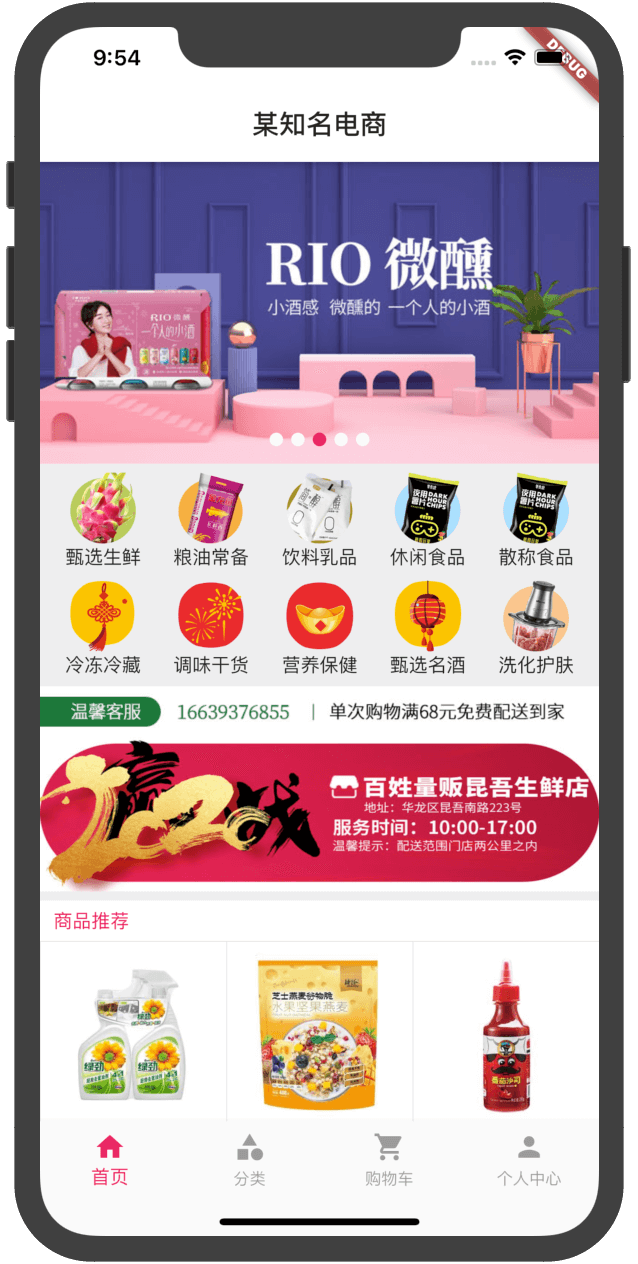
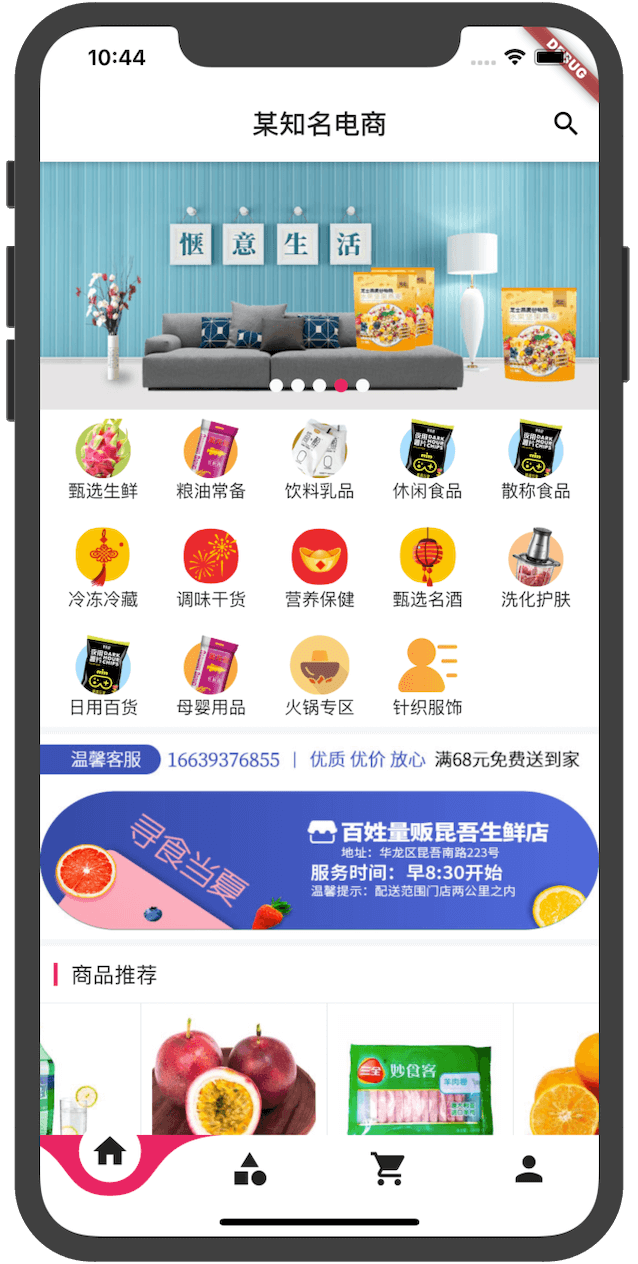
change ui

diff --git a/lib/pages/tabs.dart b/lib/pages/tabs.dart
@@ -8,15 +8,16 @@ import 'package:flutter_screenutil/flutter_screenutil.dart';
 import '../config/color.dart';
 import 'package:provider/provider.dart';
 import '../config/routers/tab_index_provider.dart';
+import 'package:curved_navigation_bar/curved_navigation_bar.dart';
 
 class Tabs extends StatelessWidget {
-  final List<BottomNavigationBarItem> bottomTabs = [
-    BottomNavigationBarItem(icon: Icon(Icons.home), title: Text('首页')),
-    BottomNavigationBarItem(icon: Icon(Icons.category), title: Text('分类')),
-    BottomNavigationBarItem(
-        icon: Icon(Icons.shopping_cart), title: Text('购物车')),
-    BottomNavigationBarItem(icon: Icon(Icons.person), title: Text('个人中心')),
+  final List<Widget> bottomTabs = [
+    Icon(Icons.home, size: 30),
+    Icon(Icons.category, size: 30),
+    Icon(Icons.shopping_cart, size: 30),
+    Icon(Icons.person, size: 30),
   ];
+
   final List<String> _titleList = ['某知名电商', '商品分类', '购物车', '我的'];
   final List<Widget> tabBodies = [
     HomePage(),
@@ -50,12 +51,11 @@ class Tabs extends StatelessWidget {
             : AppBar(
                 title: Text(_titleList[currentIndex]),
               ),
-        backgroundColor: Color.fromRGBO(244, 245, 245, 1.0),
-        bottomNavigationBar: BottomNavigationBar(
-          fixedColor: KColor.themeColor,
-          unselectedItemColor: Colors.black38,
-          type: BottomNavigationBarType.fixed,
-          currentIndex: currentIndex,
+        backgroundColor: KColor.bgColor,
+        bottomNavigationBar: CurvedNavigationBar(
+          index: currentIndex,
+          backgroundColor: KColor.themeColor,
+          animationDuration: Duration(milliseconds: 300),
           items: bottomTabs,
           onTap: (index) {
             Provider.of<CurrentIndexProvider>(context, listen: false)

diff --git a/lib/pages/order/views/order_distribution_type_widget.dart b/lib/pages/order/views/order_distribution_type_widget.dart
@@ -3,6 +3,7 @@
  * 配送类型
  */
 import 'package:flutter/material.dart';
+import 'package:flutter_01/config/color.dart';
 
 class DistribTypeWidget extends StatelessWidget {
   const DistribTypeWidget({Key key}) : super(key: key);
@@ -10,16 +11,13 @@ class DistribTypeWidget extends StatelessWidget {
   @override
   Widget build(BuildContext context) {
     return Container(
-      color: Colors.grey[200],
+      color: KColor.bgColor,
       padding: EdgeInsets.all(15),
       child: Row(
         children: <Widget>[
           Text(
             '配送类型：',
-            style: TextStyle(
-              color: Colors.black45,
-              fontSize: 14
-            ),  
+            style: TextStyle(color: Colors.black45, fontSize: 14),
           ),
 
           // 标签
@@ -32,16 +30,11 @@ class DistribTypeWidget extends StatelessWidget {
             ),
             child: Text(
               '配送到家',
-              style: TextStyle(
-                color: Colors.green,
-                fontSize: 15
-              ),  
+              style: TextStyle(color: Colors.green, fontSize: 15),
             ),
           ),
         ],
       ),
     );
   }
-
-
 }

diff --git a/lib/pages/catagory/views/left_list_widget.dart b/lib/pages/catagory/views/left_list_widget.dart
@@ -4,6 +4,7 @@
  */
 
 import 'package:flutter/material.dart';
+import 'package:flutter_01/config/color.dart';
 import 'package:provider/provider.dart';
 import 'package:flutter_screenutil/flutter_screenutil.dart';
 import '../../../config/request/service_method.dart';
@@ -62,7 +63,7 @@ class _LeftCategoryListWidgetState extends State<LeftCategoryListWidget> {
       child: Container(
         height: ScreenUtil().setHeight(100),
         decoration: BoxDecoration(
-            color: isClick ? Color.fromRGBO(236, 236, 236, 1.0) : Colors.white,
+            color: isClick ? KColor.bgColor : Colors.white,
             border:
                 Border(bottom: BorderSide(width: 1, color: Colors.black12))),
         child: Center(

diff --git a/lib/pages/order/views/order_remark_widget.dart b/lib/pages/order/views/order_remark_widget.dart
@@ -3,7 +3,7 @@
  * 备注
  */
 import 'package:flutter/material.dart';
-import 'package:flutter_screenutil/screenutil.dart';
+import 'package:flutter_01/config/color.dart';
 
 class RemarkWidget extends StatelessWidget {
   const RemarkWidget({Key key}) : super(key: key);
@@ -11,7 +11,7 @@ class RemarkWidget extends StatelessWidget {
   @override
   Widget build(BuildContext context) {
     return Container(
-      color: Colors.grey[200],
+      color: KColor.bgColor,
       padding: EdgeInsets.fromLTRB(10, 5, 5, 5),
       child: Row(
         children: <Widget>[

diff --git a/lib/pages/home/views/detail_tabbar_widget.dart b/lib/pages/home/views/detail_tabbar_widget.dart
@@ -17,7 +17,7 @@ class DetailTabbarWidget extends StatelessWidget {
       var isLeft = infoProvide.isSelectLeft;
       var isRight = infoProvide.isSelectRight;
       return Container(
-        color: Color.fromRGBO(250, 250, 250, 1.0),
+        color: Color.fromRGBO(244, 246, 250, 1.0),
         padding: EdgeInsets.only(top: 10),
         child: Row(
           children: <Widget>[

diff --git a/lib/config/color.dart b/lib/config/color.dart
@@ -4,6 +4,6 @@ import 'dart:ui';
 import 'package:flutter/material.dart';
 
 class KColor {
-  static const Color themeColor = Colors.pink;   // 主题色
-  static const Color bgColor    = Color.fromRGBO(238, 238, 239, 1.0); //背景色
+  static const Color themeColor = Colors.pink; // 主题色
+  static const Color bgColor = Color.fromRGBO(244, 246, 250, 1.0); //背景色
 }

diff --git a/lib/pages/order/views/order_bottom_widget.dart b/lib/pages/order/views/order_bottom_widget.dart
@@ -20,7 +20,7 @@ class BottomWidget extends StatelessWidget {
       padding: EdgeInsets.fromLTRB(10, 0, 10, 0),
       width: ScreenUtil().setWidth(750),
       height: ScreenUtil().setHeight(100),
-      color: Colors.grey[200],
+      color: KColor.bgColor,
       child: Stack(
         children: <Widget>[
           Align(
